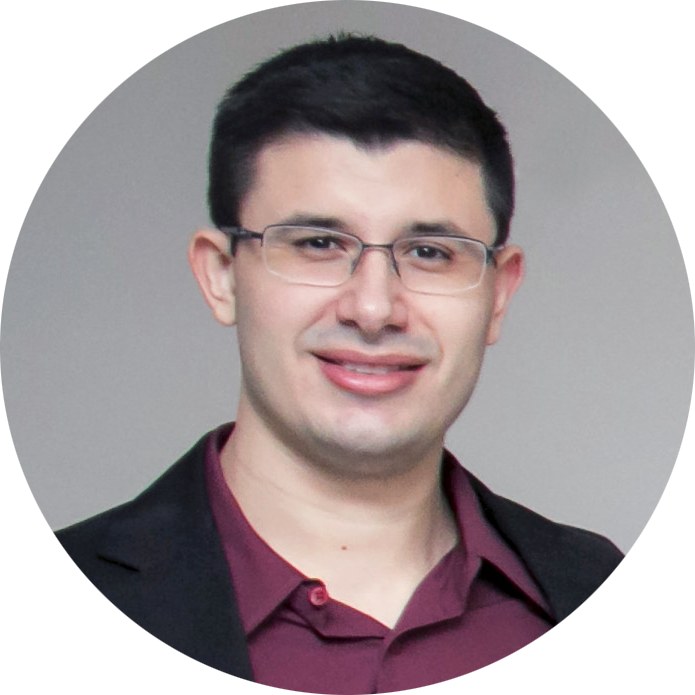
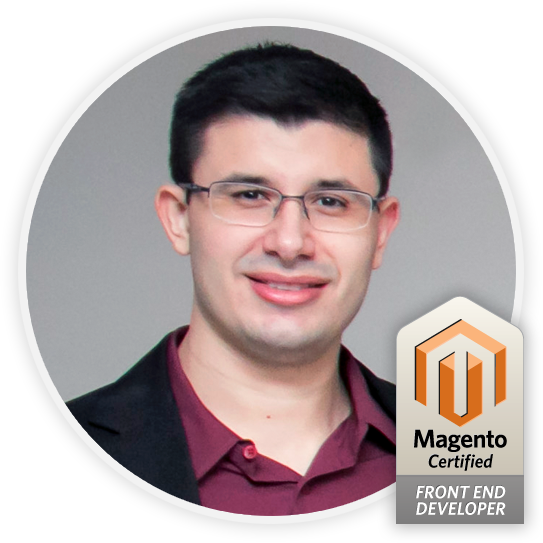
Adds about me page

diff --git a/assets/css/style.css b/assets/css/style.css
@@ -1,2 +1,2 @@
-@import url(http://fonts.googleapis.com/css?family=Open+Sans:300,400,800);@import url(http://fonts.googleapis.com/css?family=PT+Serif:400,700,400italic,700italic);.button,.button-secondary,.button-tertiary,.button__outline{background-color:#44A7BA;display:inline-block;position:relative;font-family:"Open Sans",Helvetica,Arial,sans-serif;text-decoration:none;color:#fff;font-size:1em;line-height:1.2em;font-weight:normal;padding:.5em 1.5em;border:0;border-radius:0px;cursor:pointer;margin-bottom:.5em;-moz-transition:background-color .14s ease-in-out;-o-transition:background-color .14s ease-in-out;-webkit-transition:background-color .14s ease-in-out;transition:background-color .14s ease-in-out}.button:hover,.button-secondary:hover,.button-tertiary:hover,.button__outline:hover,.button:focus,.button-secondary:focus,.button-tertiary:focus,.button__outline:focus{color:#fff;text-decoration:none;background-color:#368595}.button:active,.button-secondary:active,.button-tertiary:active,.button__outline:active{top:1px}.button-secondary{background-color:#44A7BA}.button-secondary:hover{background-color:#368595}.button-tertiary{background-color:#aaa}.button-tertiary:hover{background-color:#919191}.button__outline{background-color:transparent;border:2px solid #44A7BA;color:#44A7BA}.button__outline:hover{background-color:#44A7BA;color:#fff}label{display:block;margin-bottom:5px}input[type=text],input[type=email],input[type=phone],input[type=password],input[type=number],input[type=search],textarea{background:#e6e6e6;padding:5px;outline:none;border:none;height:44px;width:300px;margin-bottom:.5rem}input[type=text]:focus,input[type=email]:focus,input[type=phone]:focus,input[type=password]:focus,input[type=number]:focus,input[type=search]:focus,textarea:focus{border:1px solid #44A7BA}input[type=text].full-width,input[type=email].full-width,input[type=phone].full-width,input[type=password].full-width,input[type=number].full-width,input[type=search].full-width,textarea.full-width{width:100%}textarea{height:132px}form{margin-bottom:40px}form .field{margin-bottom:20px}form .note{margin-top:5px;color:#aaa}form .req{font-style:italic}form .error .reason{margin-top:5px;color:#FF4136}form .error input[type=text],form .error input[type=email],form .error input[type=phone],form .error input[type=password],form .error input[type=number],form .error input[type=search],form .error textarea{border-color:#FF4136}table{width:100%;border:1px solid #d0d0d0;margin-bottom:1.5em}table caption{margin:0 0 7px;font-size:0.75em;color:#aaa;text-transform:uppercase;letter-spacing:1px}tr{border-bottom:1px solid #d0d0d0}tr:nth-child(even){background-color:#f7f7f7}td{padding:7px;border-right:1px solid #d0d0d0}td:last-child{border-right:0}th{background-color:#f7f7f7;border-bottom:1px solid #d0d0d0;border-right:1px solid #d0d0d0}th:last-child{border-right:0}.highlight{white-space:pre;overflow:auto;word-wrap:normal;-moz-border-radius:3px;-webkit-border-radius:3px;border-radius:3px;padding:20px;background:#343642;color:#C1C2C3}.highlight .hll{background-color:#ffc}.highlight .gd{color:#2e3436;background-color:#0e1416}.highlight .gr{color:#eeeeec;background-color:#c00}.highlight .gi{color:#babdb6;background-color:#1f2b2d}.highlight .go{color:#2c3032;background-color:#2c3032}.highlight .kt{color:#e3e7df}.highlight .ni{color:#888a85}.highlight .c,.highlight .cm,.highlight .c1,.highlight .cs{color:#8D9684}.highlight .err,.highlight .g,.highlight .l,.highlight .n,.highlight .x,.highlight .p,.highlight .ge,.highlight .gp,.highlight .gs,.highlight .gt,.highlight .ld,.highlight .s,.highlight .nc,.highlight .nd,.highlight .ne,.highlight .nl,.highlight .nn,.highlight .nx,.highlight .py,.highlight .ow,.highlight .w,.highlight .sb,.highlight .sc,.highlight .sd,.highlight .s2,.highlight .se,.highlight .sh,.highlight .si,.highlight .sx,.highlight .sr,.highlight .s1,.highlight .ss,.highlight .bp{color:#C1C2C3}.highlight .k,.highlight .kc,.highlight .kd,.highlight .kn,.highlight .kp,.highlight .kr,.highlight .nt{color:#729fcf}.highlight .cp,.highlight .gh,.highlight .gu,.highlight .na,.highlight .nf{color:#E9A94B}.highlight .m,.highlight .nb,.highlight .no,.highlight .mf,.highlight .mh,.highlight .mi,.highlight .mo,.highlight .il{color:#8ae234}.highlight .o{color:#989DAA}.highlight .nv,.highlight .vc,.highlight .vg,.highlight .vi{color:#fff}.avatar{text-align:center}.avatar img{width:200px;height:200px}body{font-size:1em;line-height:1.45}body .intro{font-size:1.25em;line-height:1.7}@media (min-width: 43.75em){body{font-size:1em;line-height:1.375}}h1,.h1,h2,.h2,h3,.h3,h4,.h4,h5,.h5,h6,.h6{margin:.5rem 0 1.5rem;font-family:"Open Sans",Helvetica,Arial,sans-serif;font-weight:300}h1,.h1{font-size:2em;line-height:1.25}@media (min-width: 43.75em){h1,.h1{font-size:2.5em;line-height:1.125}}@media (min-width: 56.25em){h1,.h1{font-size:3em;line-height:1.05}}h2,.h2{font-size:1.625em;line-height:1.15384615}@media (min-width: 43.75em){h2,.h2{font-size:2em;line-height:1.25}}@media (min-width: 56.25em){h2,.h2{font-size:2.25em;line-height:1.25}}h3,.h3{font-size:1.375em;line-height:1.13636364}@media (min-width: 43.75em){h3,.h3{font-size:1.5em;line-height:1.25}}@media (min-width: 56.25em){h3,.h3{font-size:1.75em;line-height:1.25}}h4,.h4{font-size:1.125em;line-height:1.11111111}@media (min-width: 43.75em){h4,.h4{line-height:1.22222222}}blockquote{font-size:1.25em;line-height:1.25;padding:0}@media (min-width: 43.75em){blockquote{font-size:1.5em;line-height:1.45833333}}.clearfix{zoom:1}.clearfix:before,.clearfix:after{content:"\0020";display:block;height:0;overflow:hidden}.clearfix:after{clear:both}html{box-sizing:border-box}*,*:before,*:after{box-sizing:inherit}body{margin:0;font-family:"Open Sans",Helvetica,Arial,sans-serif;line-height:1.75;font-size:112.5%;color:#111;overflow-x:hidden;font-weight:300;letter-spacing:0.5px}body p,body ul{margin:0 0 2rem}::-moz-selection{background:#44A7BA;color:white}::selection{background:#44A7BA;color:white}img,video,audio,iframe,object{max-width:100%}.container{max-width:610px;margin-left:auto;margin-right:auto;padding:0 20px}.container:after{content:" ";display:block;clear:both}a{color:#44A7BA}a:hover{color:#307582}.nav-collapse{z-index:1}.nav-collapse ul{margin:0;padding:0;width:100%;display:block;list-style:none}.nav-collapse ul li{width:100%;display:block;background:#28464A;border-bottom:1px solid #29545D;font-family:"Open Sans",Helvetica,Arial,sans-serif}.nav-collapse ul li a{color:white;text-decoration:none;display:block;padding:5px 2rem}.js .nav-collapse{clip:rect(0 0 0 0);max-height:0;position:absolute;display:block;overflow:hidden;zoom:1;clear:both;width:100%}.nav-collapse.opened{max-height:9999px}.nav-toggle{-webkit-tap-highlight-color:transparent;-webkit-touch-callout:none;-webkit-user-select:none;-moz-user-select:none;-ms-user-select:none;-o-user-select:none;user-select:none;float:right;line-height:2em;margin-top:.5em;background-color:rgba(255,255,255,0.18);border-radius:4px;padding:0 .5em;color:white;text-decoration:none;position:relative;right:2rem;-webkit-transition:all 0.2s ease-in-out;transition:all 0.2s ease-in-out}.nav-toggle:hover{color:white;background-color:rgba(255,255,255,0.3)}.noList{list-style:none;padding-left:0;margin-left:0}dt{font-weight:bold}dd{margin:0 0 1.5rem}.pageTitle{margin:2rem auto 1em;text-align:center}.content{padding-top:1em}.header{background-color:#44A7BA;background-size:cover;background-position:center center;color:white;padding:0;height:3em;background:#3f94d4;background:-moz-linear-gradient(left, #3f94d4 0%, #49bd9c 100%);background:-webkit-gradient(left top, right top, color-stop(0%, #3f94d4), color-stop(100%, #49bd9c));background:-webkit-linear-gradient(left, #3f94d4 0%, #49bd9c 100%);background:-o-linear-gradient(left, #3f94d4 0%, #49bd9c 100%);background:-ms-linear-gradient(left, #3f94d4 0%, #49bd9c 100%);background:linear-gradient(to right, #3f94d4 0%,#49bd9c 100%);filter:progid:DXImageTransform.Microsoft.gradient( startColorstr=$header-gradient-primary-color, endColorstr=$header-gradient-secondary-color, GradientType=1 )}.header .container{padding:0;max-width:100%;margin-left:auto;margin-right:auto}.header .container:after{content:" ";display:block;clear:both}.header h1{margin:0;float:left;padding-left:2rem;font-size:1em;line-height:3em;font-family:"Open Sans",Helvetica,Arial,sans-serif;font-weight:800;text-transform:uppercase}.header h1 a{color:white;text-decoration:none}.post .postTitle{text-align:center;margin-top:2rem;font-weight:300;font-size:48px;margin-bottom:1.56rem}.post blockquote{clear:both;margin:2.5em 0;padding:0;line-height:1.8;position:relative}.post blockquote:before{content:"";position:absolute;top:-1.25em;background:#44A7BA;display:block;height:2px;width:150px;left:calc(50% - 75px)}.post blockquote:after{content:"";position:absolute;bottom:-1.25em;background:#44A7BA;display:block;height:2px;width:150px;left:calc(50% - 75px)}.post .meta{text-align:center;color:gray;font-family:"Open Sans",Helvetica,Arial,sans-serif;font-weight:300}.post figure{margin:3rem 0}.post figure figcaption{text-align:center;font-size:.9em;font-style:italic;color:#5e5e5e}.post figure img{margin:0 auto;display:block}.post img{margin-bottom:2rem}.post .highlight{clear:both;margin-bottom:2rem}.post .dropcap{color:#44A7BA;margin-right:.45rem}.post .featuredImage{position:relative;margin-top:2rem}.post .featuredImage img{margin-bottom:0}.postNav{overflow:hidden}.postNav .prev,.postNav .next{display:block;width:100%;height:5rem;overflow:hidden;position:relative;font-family:"Open Sans",Helvetica,Arial,sans-serif;font-weight:800;font-size:.9em;text-transform:uppercase;text-align:center}.postNav .prev img,.postNav .next img{z-index:1;display:block;position:absolute;top:50%;-webkit-transform:translateY(-50%);-ms-transform:translateY(-50%);transform:translateY(-50%);left:0;width:100%;.
+@import url(http://fonts.googleapis.com/css?family=Open+Sans:300,400,800);@import url(http://fonts.googleapis.com/css?family=PT+Serif:400,700,400italic,700italic);.button,.button-secondary,.button-tertiary,.button__outline{background-color:#44A7BA;display:inline-block;position:relative;font-family:"Open Sans",Helvetica,Arial,sans-serif;text-decoration:none;color:#fff;font-size:1em;line-height:1.2em;font-weight:normal;padding:.5em 1.5em;border:0;border-radius:0px;cursor:pointer;margin-bottom:.5em;-moz-transition:background-color .14s ease-in-out;-o-transition:background-color .14s ease-in-out;-webkit-transition:background-color .14s ease-in-out;transition:background-color .14s ease-in-out}.button:hover,.button-secondary:hover,.button-tertiary:hover,.button__outline:hover,.button:focus,.button-secondary:focus,.button-tertiary:focus,.button__outline:focus{color:#fff;text-decoration:none;background-color:#368595}.button:active,.button-secondary:active,.button-tertiary:active,.button__outline:active{top:1px}.button-secondary{background-color:#44A7BA}.button-secondary:hover{background-color:#368595}.button-tertiary{background-color:#aaa}.button-tertiary:hover{background-color:#919191}.button__outline{background-color:transparent;border:2px solid #44A7BA;color:#44A7BA}.button__outline:hover{background-color:#44A7BA;color:#fff}label{display:block;margin-bottom:5px}input[type=text],input[type=email],input[type=phone],input[type=password],input[type=number],input[type=search],textarea{background:#e6e6e6;padding:5px;outline:none;border:none;height:44px;width:300px;margin-bottom:.5rem}input[type=text]:focus,input[type=email]:focus,input[type=phone]:focus,input[type=password]:focus,input[type=number]:focus,input[type=search]:focus,textarea:focus{border:1px solid #44A7BA}input[type=text].full-width,input[type=email].full-width,input[type=phone].full-width,input[type=password].full-width,input[type=number].full-width,input[type=search].full-width,textarea.full-width{width:100%}textarea{height:132px}form{margin-bottom:40px}form .field{margin-bottom:20px}form .note{margin-top:5px;color:#aaa}form .req{font-style:italic}form .error .reason{margin-top:5px;color:#FF4136}form .error input[type=text],form .error input[type=email],form .error input[type=phone],form .error input[type=password],form .error input[type=number],form .error input[type=search],form .error textarea{border-color:#FF4136}table{width:100%;border:1px solid #d0d0d0;margin-bottom:1.5em}table caption{margin:0 0 7px;font-size:0.75em;color:#aaa;text-transform:uppercase;letter-spacing:1px}tr{border-bottom:1px solid #d0d0d0}tr:nth-child(even){background-color:#f7f7f7}td{padding:7px;border-right:1px solid #d0d0d0}td:last-child{border-right:0}th{background-color:#f7f7f7;border-bottom:1px solid #d0d0d0;border-right:1px solid #d0d0d0}th:last-child{border-right:0}.highlight{white-space:pre;overflow:auto;word-wrap:normal;-moz-border-radius:3px;-webkit-border-radius:3px;border-radius:3px;padding:20px;background:#343642;color:#C1C2C3}.highlight .hll{background-color:#ffc}.highlight .gd{color:#2e3436;background-color:#0e1416}.highlight .gr{color:#eeeeec;background-color:#c00}.highlight .gi{color:#babdb6;background-color:#1f2b2d}.highlight .go{color:#2c3032;background-color:#2c3032}.highlight .kt{color:#e3e7df}.highlight .ni{color:#888a85}.highlight .c,.highlight .cm,.highlight .c1,.highlight .cs{color:#8D9684}.highlight .err,.highlight .g,.highlight .l,.highlight .n,.highlight .x,.highlight .p,.highlight .ge,.highlight .gp,.highlight .gs,.highlight .gt,.highlight .ld,.highlight .s,.highlight .nc,.highlight .nd,.highlight .ne,.highlight .nl,.highlight .nn,.highlight .nx,.highlight .py,.highlight .ow,.highlight .w,.highlight .sb,.highlight .sc,.highlight .sd,.highlight .s2,.highlight .se,.highlight .sh,.highlight .si,.highlight .sx,.highlight .sr,.highlight .s1,.highlight .ss,.highlight .bp{color:#C1C2C3}.highlight .k,.highlight .kc,.highlight .kd,.highlight .kn,.highlight .kp,.highlight .kr,.highlight .nt{color:#729fcf}.highlight .cp,.highlight .gh,.highlight .gu,.highlight .na,.highlight .nf{color:#E9A94B}.highlight .m,.highlight .nb,.highlight .no,.highlight .mf,.highlight .mh,.highlight .mi,.highlight .mo,.highlight .il{color:#8ae234}.highlight .o{color:#989DAA}.highlight .nv,.highlight .vc,.highlight .vg,.highlight .vi{color:#fff}.avatar{text-align:center}.avatar img{width:230px;height:220px}body{font-size:1em;line-height:1.45}body .intro{font-size:1.25em;line-height:1.7}@media (min-width: 43.75em){body{font-size:1em;line-height:1.375}}h1,.h1,h2,.h2,h3,.h3,h4,.h4,h5,.h5,h6,.h6{margin:.5rem 0 1.5rem;font-family:"Open Sans",Helvetica,Arial,sans-serif;font-weight:300}h1,.h1{font-size:2em;line-height:1.25}@media (min-width: 43.75em){h1,.h1{font-size:2.5em;line-height:1.125}}@media (min-width: 56.25em){h1,.h1{font-size:3em;line-height:1.05}}h2,.h2{font-size:1.625em;line-height:1.15384615}@media (min-width: 43.75em){h2,.h2{font-size:2em;line-height:1.25}}@media (min-width: 56.25em){h2,.h2{font-size:2.25em;line-height:1.25}}h3,.h3{font-size:1.375em;line-height:1.13636364}@media (min-width: 43.75em){h3,.h3{font-size:1.5em;line-height:1.25}}@media (min-width: 56.25em){h3,.h3{font-size:1.75em;line-height:1.25}}h4,.h4{font-size:1.125em;line-height:1.11111111}@media (min-width: 43.75em){h4,.h4{line-height:1.22222222}}blockquote{font-size:1.25em;line-height:1.25;padding:0}@media (min-width: 43.75em){blockquote{font-size:1.5em;line-height:1.45833333}}.clearfix{zoom:1}.clearfix:before,.clearfix:after{content:"\0020";display:block;height:0;overflow:hidden}.clearfix:after{clear:both}html{box-sizing:border-box}*,*:before,*:after{box-sizing:inherit}body{margin:0;font-family:"Open Sans",Helvetica,Arial,sans-serif;line-height:1.75;font-size:112.5%;color:#111;overflow-x:hidden;font-weight:300;letter-spacing:0.5px}body p,body ul{margin:0 0 2rem}::-moz-selection{background:#44A7BA;color:white}::selection{background:#44A7BA;color:white}img,video,audio,iframe,object{max-width:100%}.container{max-width:610px;margin-left:auto;margin-right:auto;padding:0 20px}.container:after{content:" ";display:block;clear:both}a{color:#44A7BA}a:hover{color:#307582}.nav-collapse{z-index:1}.nav-collapse ul{margin:0;padding:0;width:100%;display:block;list-style:none}.nav-collapse ul li{width:100%;display:block;background:#28464A;border-bottom:1px solid #29545D;font-family:"Open Sans",Helvetica,Arial,sans-serif}.nav-collapse ul li a{color:white;text-decoration:none;display:block;padding:5px 2rem}.js .nav-collapse{clip:rect(0 0 0 0);max-height:0;position:absolute;display:block;overflow:hidden;zoom:1;clear:both;width:100%}.nav-collapse.opened{max-height:9999px}.nav-toggle{-webkit-tap-highlight-color:transparent;-webkit-touch-callout:none;-webkit-user-select:none;-moz-user-select:none;-ms-user-select:none;-o-user-select:none;user-select:none;float:right;line-height:2em;margin-top:.5em;background-color:rgba(255,255,255,0.18);border-radius:4px;padding:0 .5em;color:white;text-decoration:none;position:relative;right:2rem;-webkit-transition:all 0.2s ease-in-out;transition:all 0.2s ease-in-out}.nav-toggle:hover{color:white;background-color:rgba(255,255,255,0.3)}.noList{list-style:none;padding-left:0;margin-left:0}dt{font-weight:bold}dd{margin:0 0 1.5rem}.pageTitle{margin:2rem auto 1em;text-align:center}.content{padding-top:1em}.header{background-color:#44A7BA;background-size:cover;background-position:center center;color:white;padding:0;height:3em;background:#3f94d4;background:-moz-linear-gradient(left, #3f94d4 0%, #49bd9c 100%);background:-webkit-gradient(left top, right top, color-stop(0%, #3f94d4), color-stop(100%, #49bd9c));background:-webkit-linear-gradient(left, #3f94d4 0%, #49bd9c 100%);background:-o-linear-gradient(left, #3f94d4 0%, #49bd9c 100%);background:-ms-linear-gradient(left, #3f94d4 0%, #49bd9c 100%);background:linear-gradient(to right, #3f94d4 0%,#49bd9c 100%);filter:progid:DXImageTransform.Microsoft.gradient( startColorstr=$header-gradient-primary-color, endColorstr=$header-gradient-secondary-color, GradientType=1 )}.header .container{padding:0;max-width:100%;margin-left:auto;margin-right:auto}.header .container:after{content:" ";display:block;clear:both}.header h1{margin:0;float:left;padding-left:2rem;font-size:1em;line-height:3em;font-family:"Open Sans",Helvetica,Arial,sans-serif;font-weight:800;text-transform:uppercase}.header h1 a{color:white;text-decoration:none}.post .postTitle{text-align:center;margin-top:2rem;font-weight:300;font-size:48px;margin-bottom:1.56rem}.post blockquote{clear:both;margin:2.5em 0;padding:0;line-height:1.8;position:relative}.post blockquote:before{content:"";position:absolute;top:-1.25em;background:#44A7BA;display:block;height:2px;width:150px;left:calc(50% - 75px)}.post blockquote:after{content:"";position:absolute;bottom:-1.25em;background:#44A7BA;display:block;height:2px;width:150px;left:calc(50% - 75px)}.post .meta{text-align:center;color:gray;font-family:"Open Sans",Helvetica,Arial,sans-serif;font-weight:300}.post figure{margin:3rem 0}.post figure figcaption{text-align:center;font-size:.9em;font-style:italic;color:#5e5e5e}.post figure img{margin:0 auto;display:block}.post img{margin-bottom:2rem}.post .highlight{clear:both;margin-bottom:2rem}.post .dropcap{color:#44A7BA;margin-right:.45rem}.post .featuredImage{position:relative;margin-top:2rem}.post .featuredImage img{margin-bottom:0}.postNav{overflow:hidden}.postNav .prev,.postNav .next{display:block;width:100%;height:5rem;overflow:hidden;position:relative;font-family:"Open Sans",Helvetica,Arial,sans-serif;font-weight:800;font-size:.9em;text-transform:uppercase;text-align:center}.postNav .prev img,.postNav .next img{z-index:1;display:block;position:absolute;top:50%;-webkit-transform:translateY(-50%);-ms-transform:translateY(-50%);transform:translateY(-50%);left:0;width:100%;.
 			height:auto}.postNav .prev span,.postNav .next span{z-index:10;position:relative;padding:.5rem;position:absolute;top:50%;-webkit-transform:translateY(-50%);-ms-transform:translateY(-50%);transform:translateY(-50%);width:100%;line-height:1.4}.postNav .prev.image,.postNav .next.image{text-decoration:none;color:white;text-shadow:1px 1px 3px rgba(0,0,0,0.8);padding:0 .5rem;position:relative;-webkit-transition:all 0.2s ease-in-out;transition:all 0.2s ease-in-out}.postNav .prev:hover.image,.postNav .next:hover.image{opacity:.8}.postNav .prev span{left:0}.postNav .next span{right:0}.footer{text-align:center;padding:2rem 0}.footer .container{border-top:1px solid #d9d9d9;padding-top:.5em;max-width:90%;margin-left:auto;margin-right:auto}.footer .container:after{content:" ";display:block;clear:both}.footer .copy,.footer .footer-links{font-size:.8em}.footer .footer-links{margin-left:8px}.footer .copy{margin-bottom:1rem}.footer-links ul{text-align:center}.footer-links ul li{display:inline-block}.footer-links ul li a{display:inline-block;width:30px;height:30px;-webkit-transition:all 0.2s ease-in-out;transition:all 0.2s ease-in-out}.footer-links ul li a svg{display:block;width:100%;height:100%}.footer-links ul li a svg .outer-shape{fill:#44A7BA}.footer-links ul li a svg .inner-shape{fill:white}.footer-links ul li:hover a svg .outer-shape{fill:#368595}.pagination .next{float:left}.pagination .previous{float:right}.posts li{margin-bottom:4rem;position:relative}.posts li:before{content:"";position:absolute;bottom:-2rem;left:0;background:#e6e6e6;height:1px;width:100%}.posts li a{text-decoration:none}.posts li a:hover{text-decoration:none}.posts li .date{color:gray;font-family:"Open Sans",Helvetica,Arial,sans-serif;font-weight:300;font-size:.8em}.posts li h3{margin:10px 0 .5em;font-weight:300;letter-spacing:1px}@media only screen and (min-width: 800px){.content{padding-top:0;position:relative;z-index:1;margin-top:50px}.content:after{z-index:-1;content:"";display:block;width:100%;height:5em;position:absolute;top:-2em;left:0;-webkit-transform:skewY(-2deg);-ms-transform:skewY(-2deg);transform:skewY(-2deg);-webkit-transform-origin:bottom left;-ms-transform-origin:bottom left;transform-origin:bottom left}.container{max-width:800px;margin-left:auto;margin-right:auto;padding:0}.container:after{content:" ";display:block;clear:both}#home .posts,#home .pageTitle,#home .pagination{width:74.46809%;float:left;margin-right:2.12766%;float:none;margin:0 auto 1.5em}#home .pageTitle{margin:2rem auto 1em}.header{height:15em;position:relative;padding-bottom:2em}.header .container{position:relative;top:55%;-webkit-transform:translateY(-50%);-ms-transform:translateY(-50%);transform:translateY(-50%);max-width:800px;margin-left:auto;margin-right:auto;text-align:center}.header .container:after{content:" ";display:block;clear:both}.header h1{font-size:3em;line-height:1;letter-spacing:2px;padding-left:0;float:none;margin-bottom:10px}.header nav{float:left;clear:left}.header nav ul{margin:0}.header nav ul li{display:inline;line-height:3em;background:none;padding:0 5px;border:none;margin:0 10px;font-family:"Open Sans",Helvetica,Arial,sans-serif;text-transform:uppercase}.header nav ul li a{color:white;font-size:.9em;text-decoration:none;padding:0 .25em}.header nav ul li a:hover{color:#ccc}.header nav ul li.current{padding-bottom:15px;border-bottom:1px solid rgba(255,255,255,0.4)}.js .nav-collapse{position:relative;max-height:none}.js .nav-collapse.closed{max-height:none}.js .nav-collapse ul li a{display:inline-block}.nav-toggle{display:none}.post h1,.post h2,.post h3,.post h4,.post h5,.post h6,.post p,.post ul,.post ol,.post dl,.post .pageTitle{width:74.46809%;float:left;margin-right:2.12766%;float:none;margin:0 auto 2rem}.post h1,.post .h1,.post h2,.post .h2,.post h3,.post .h3,.post h4,.post .h4,.post h5,.post .h5,.post h6,.post .h6{margin:1rem auto}.post .pageTitle{margin:2rem auto 1em}.post .featuredImage{position:relative;margin-top:2rem}.post .featuredImage:before{content:"";display:block;width:100%;height:4em;position:absolute;top:-2em;left:0;-webkit-transform:skewY(-2deg);-ms-transform:skewY(-2deg);transform:skewY(-2deg);-webkit-transform-origin:bottom left;-ms-transform-origin:bottom left;transform-origin:bottom left}.postNav .prev,.postNav .next{width:50%}.postNav .prev{float:left;text-align:left}.postNav .next{text-align:right;float:right}.footer-links{float:right}.footer .copy{float:left}.footer .container{padding:1rem 0;max-width:800px;margin-left:auto;margin-right:auto}.footer .container:after{content:" ";display:block;clear:both}.contactContent{width:48.93617%;float:left;margin-right:2.12766%}#contact form{width:48.93617%;float:right;margin-right:0}}

diff --git a/assets/scss/modules/_avatar.scss b/assets/scss/modules/_avatar.scss
@@ -2,8 +2,8 @@
 	text-align: center;
 
 	img {
-		width: 200px;
-		height: 200px;
+		width: 230px;
+		height: 230px;
 	} 
 
 }

diff --git a/about.md b/about.md
@@ -1,6 +1,6 @@
 ---
 layout: default
-title: Sobre Luiz Venturote
+title: About Luiz Venturote
 ---
 
 <div class="post">
@@ -8,6 +8,11 @@ title: Sobre Luiz Venturote
   <div class="avatar">
     <img src="{{ '/assets/img/avatar.png' | prepend: site.baseurl }}" alt="Luiz Venturote">   
   </div>
-	<p class="intro">Long Haul is a minimal, long form <a href="http://jekyllrb.com">Jekyll</a> Theme. It can be used as is or customized to your hearts desire.</p>
-	<p>Long Haul was created in honor of all the hard working touring bicycles that have traversed the globe time and time again. Take it for a spin.</p>
+
+	<p class="intro">Hi my name is Luiz Venturote. I'm a Magento front-end developer at <a href="https://www.randwmedia.com/" target="_blank">R&W Media</a>. Currently I'm also studying information system at <a href="http://www.ifes.edu.br/" target="_blank">Ifes</a> in Brazil.</p>
+
+	<p>I love internet and web development. I have worked with Wordpress and design for several years, creating layouts and applications. But now I am keeping the focus of my work in e-commerce development with Magento, creating themes and extensions and I got my first <a href="https://www.magentocommerce.com/certification/directory/dev/2261168/" target="_blank">front-end certification</a> in early 2016.</p>
+
+	<p>I enjoy music, learning foreign languages and Bible. If you want to know more about me or on those issues, please <a href="mailto:{{ site.social.email }}">contact me!</a></p>
+
 </div>
